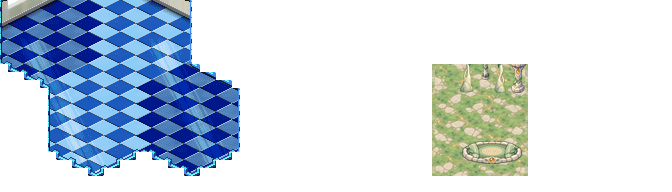
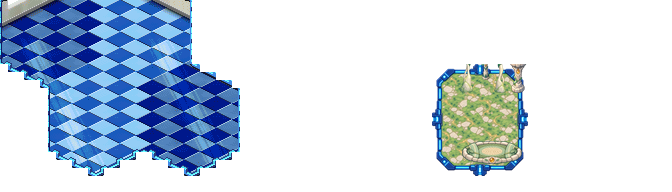
fix(art): restore cage connectors and responsive scale

Changed region(s): [[0.625, 0.3125, 0.8125, 0.9375]]

diff --git a/src/championship/presentation/intRh2/raisingFieldViewport.js b/src/championship/presentation/intRh2/raisingFieldViewport.js
@@ -14,12 +14,12 @@ export function raisingFieldViewport(field, viewport, padding = 12, cameraX = 0)
   const nativeWindow = field.presentationMode === 'NATIVE_RANCH' && field.nativePixelWorldScale > 0;
   const headroom = nativeWindow && field.wrapWidthPx ? 64*field.nativePixelWorldScale : 0;
   const heightScale = Math.max(1, viewport.height - padding * 2) / (field.worldHeightPx+headroom);
-  // The ranch is a wide, 192-native-pixel-tall strip. Filling a tall phone's
-  // height outright magnified it until one cage covered the screen and its
-  // neighbours, and often every resident, sat outside the frame -- measured at
-  // 390x844. Two screen pixels per original pixel is the stop: large enough to
-  // read a resident, wide enough to keep the next cage in view.
-  const zoomCap = 2 / field.nativePixelWorldScale;
+  // Never shrink below two screen pixels per native pixel; then use available
+  // phone/tablet/desktop width to enlarge the same ranch plane instead of
+  // exposing large empty surroundings. The single fitted transform still owns
+  // art, residents, input and camera round trips.
+  const nativeScreenPixels = Math.min(4.5, Math.max(2, viewport.width / 160));
+  const zoomCap = nativeScreenPixels / field.nativePixelWorldScale;
   const scale = nativeWindow ? Math.min(heightScale, zoomCap)
     : Math.min(Math.max(1, viewport.width - padding * 2) / field.worldWidthPx, heightScale);
   const width = field.worldWidthPx * scale;

diff --git a/scripts/build-cage-authoring-proof.py b/scripts/build-cage-authoring-proof.py
@@ -128,32 +128,17 @@ def candidate_manifest(contract, candidate):
         require(digest(candidate/relative) == source_hashes[Path(relative).name], 'CANDIDATE_SOURCE_HASH_MISMATCH')
     return manifest
 
-def _opaque_core_source(source, size):
+def _fit_modular_core_source(source, size):
     image = source.convert('RGBA')
-    target_ratio = size[0] / size[1]
-    source_ratio = image.width / image.height
-    if source_ratio > target_ratio:
-        crop_width = round(image.height * target_ratio)
-        left = (image.width - crop_width) // 2
-        image = image.crop((left, 0, left + crop_width, image.height))
-    elif source_ratio < target_ratio:
-        crop_height = round(image.width / target_ratio)
-        top = (image.height - crop_height) // 2
-        image = image.crop((0, top, image.width, top + crop_height))
-    image = image.resize(tuple(size), Image.Resampling.LANCZOS)
-    image.putalpha(Image.new('L', image.size, 255))
-    # Pair the outer three pixel bands so the authored ground wraps without an
-    # alpha or colour crack. This changes no Cage coordinate or placement.
-    pixels=image.load()
-    for inset in range(3):
-        for y in range(image.height):
-            left,right=pixels[inset,y],pixels[image.width-1-inset,y]
-            shared=tuple(round((left[i]+right[i])/2) for i in range(4))
-            pixels[inset,y]=shared; pixels[image.width-1-inset,y]=shared
-        for x in range(image.width):
-            top,bottom=pixels[x,inset],pixels[x,image.height-1-inset]
-            shared=tuple(round((top[i]+bottom[i])/2) for i in range(4))
-            pixels[x,inset]=shared; pixels[x,image.height-1-inset]=shared
+    alpha = image.getchannel('A')
+    threshold = alpha.point(lambda value: 255 if value >= 16 else 0)
+    bounds = threshold.getbbox()
+    require(bounds is not None, 'CANDIDATE_CORE_SOURCE_EMPTY')
+    # Alpha trim and fit the authored four-way connector silhouette to the
+    # existing 96x112 contract. No placement, pivot or hand-tuned X/Y offset is
+    # introduced; the visible source bounds define all four contact edges.
+    image = image.crop(bounds).convert('RGBa').resize(tuple(size), Image.Resampling.LANCZOS).convert('RGBA')
+    image.putalpha(image.getchannel('A').point(lambda value: 0 if value < 8 else value))
     return image
 
 def _fit_object_source(source, record, inset=1):
@@ -184,7 +169,7 @@ def prepare_candidate(contract, candidate):
     manifest = candidate_manifest(contract, candidate)
     sources = manifest['sources']
     with Image.open(candidate/sources['core']) as source:
-        core = _opaque_core_source(source, contract['core']['size'])
+        core = _fit_modular_core_source(source, contract['core']['size'])
     core.save(candidate/'core-native.png', optimize=True)
     object_dir = candidate/'object-cells'
     object_dir.mkdir(parents=True, exist_ok=True)
@@ -200,7 +185,11 @@ def load_candidate_export(contract, candidate):
     require(core_path.is_file(), 'CANDIDATE_CORE_EXPORT_MISSING')
     core = Image.open(core_path).convert('RGBA')
     require(list(core.size) == contract['core']['size'], 'CANDIDATE_CORE_DIMENSION_DRIFT')
-    require(core.getchannel('A').getextrema() == (255,255), 'CANDIDATE_CORE_MUST_BE_OPAQUE')
+    alpha = core.getchannel('A')
+    require(alpha.getextrema() == (0,255), 'CANDIDATE_CORE_REQUIRES_REAL_ALPHA')
+    require(alpha.getbbox() == (0,0,core.width,core.height), 'CANDIDATE_CORE_CONNECTORS_MUST_REACH_ALL_EDGES')
+    require(all(alpha.getpixel(point) == 0 for point in ((0,0),(core.width-1,0),(0,core.height-1),(core.width-1,core.height-1))),
+        'CANDIDATE_CORE_CORNERS_MUST_REMAIN_TRANSPARENT')
     expected = {o['objectId'] for o in contract['objects']}
     object_dir = candidate/'object-cells'
     actual = {p.stem for p in object_dir.glob('*.png')} if object_dir.is_dir() else set()
@@ -341,18 +330,25 @@ def build_candidate(contract, candidate, output):
             draw.text((column*review_cell[0]*review_scale+8,8),record['objectId'],fill=(255,255,255,255))
     review.save(output/'object-review.png',optimize=True)
     with Image.open(candidate/'core-native.png').convert('RGBA') as core:
-        def mean_edge_delta(first,second):
-            a=first.convert('RGB').tobytes(); b=second.convert('RGB').tobytes()
-            values=[sum(abs(a[i+j]-b[i+j]) for j in range(3))/3 for i in range(0,len(a),3)]
-            return round(sum(values)/len(values),3)
-        seam={'leftRightMeanRgbDelta':mean_edge_delta(core.crop((0,0,1,core.height)),core.crop((core.width-1,0,core.width,core.height))),
-            'topBottomMeanRgbDelta':mean_edge_delta(core.crop((0,0,core.width,1)),core.crop((0,core.height-1,core.width,core.height))),
-            'transparentGapPixels':core.getchannel('A').tobytes().count(0),
-            'status':'VISUAL_REVIEW_REQUIRED_NO_ALPHA_GAPS'}
+        channel=core.getchannel('A'); pixels=core.load()
+        edge_alpha={
+            'top':sum(channel.getpixel((x,0))>0 for x in range(core.width)),
+            'bottom':sum(channel.getpixel((x,core.height-1))>0 for x in range(core.width)),
+            'left':sum(channel.getpixel((0,y))>0 for y in range(core.height)),
+            'right':sum(channel.getpixel((core.width-1,y))>0 for y in range(core.height))}
+        require(all(value>0 for value in edge_alpha.values()),'CANDIDATE_CORE_MISSING_CONNECTOR_EDGE')
+        transparent=channel.tobytes().count(0)
+        require(transparent>=core.width*core.height*.05,'CANDIDATE_CORE_TRANSPARENT_EXTERIOR_TOO_SMALL')
+        blue=sum(1 for y in range(core.height) for x in range(core.width)
+            if channel.getpixel((x,y))>=32 and pixels[x,y][2]>=pixels[x,y][0]+25)
+        require(blue>=core.width*core.height*.08,'CANDIDATE_CORE_BLUE_RIM_NOT_READABLE')
+        seam={'connectorEdgeAlphaPixels':edge_alpha,'transparentExteriorPixels':transparent,
+            'blueRimPixels':blue,'status':'GEOMETRY_PASS_VISUAL_JOIN_REVIEW_REQUIRED'}
     report={'fieldId':FIELD,'assetId':manifest['assetId'],'status':'CANDIDATE_GEOMETRY_PASS_VISUAL_REVIEW_REQUIRED',
         'formula':'placement - pivot','manualCorrections':0,'geometryUnchanged':True,'completePackage':True,
         'rightsStatus':'ORIGINAL_CREATED','humanApproved':False,'runtimeEligible':False,'shippingReady':False,
-        'core':{'size':contract['core']['size'],'opaque':True,'sha256':digest(candidate/'core-native.png')},
+        'core':{'size':contract['core']['size'],'opaque':False,'alphaBounds':list(channel.getbbox()),
+            'sha256':digest(candidate/'core-native.png')},
         'objects':alpha,'seamQa':seam,'scenarios':scenarios,
         'limits':['Generated-art geometry and completeness pass; this is not pixel equality with research material.',
             'Foreground actor-object ordering remains UNKNOWN_REQUIRES_TRACE until separately traced and approved.',

diff --git a/tests/test_cage_authoring_proof.py b/tests/test_cage_authoring_proof.py
@@ -90,16 +90,16 @@ class CageAuthoringProof(unittest.TestCase):
 
     def test_incomplete_candidate_never_falls_back_to_reference_objects(self):
         source=ROOT/'docs/art/production/original-character-cage-r1/cage-field-cm01-breeze-meadow-v1'
+        manifest=proof.read(source/'manifest.json')
         with tempfile.TemporaryDirectory() as folder:
             candidate=Path(folder)
             (candidate/'object-cells').mkdir()
             (candidate/'manifest.json').write_bytes((source/'manifest.json').read_bytes())
             (candidate/'core-native.png').write_bytes((source/'core-native.png').read_bytes())
-            for relative in ['source/core-generated.png','prompts/core.prompt.txt']:
+            inputs=[manifest['sources']['core'],manifest['prompts']['core'],
+                *manifest['sources']['objects'].values(),*manifest['prompts']['objects'].values()]
+            for relative in inputs:
                 target=candidate/relative; target.parent.mkdir(parents=True,exist_ok=True); target.write_bytes((source/relative).read_bytes())
-            for object_id in ['obj-000','obj-001','obj-002','obj-003']:
-                for relative in [f'source/{object_id}-generated.png',f'prompts/{object_id}.prompt.txt']:
-                    target=candidate/relative; target.parent.mkdir(parents=True,exist_ok=True); target.write_bytes((source/relative).read_bytes())
             for object_id in ['obj-000','obj-001','obj-002']:
                 (candidate/'object-cells'/f'{object_id}.png').write_bytes((source/'object-cells'/f'{object_id}.png').read_bytes())
             with self.assertRaisesRegex(ValueError,'OBJECT_EXPORT_SET_INCOMPLETE'):
@@ -107,14 +107,15 @@ class CageAuthoringProof(unittest.TestCase):
 
     def test_candidate_source_hash_drift_is_refused(self):
         source=ROOT/'docs/art/production/original-character-cage-r1/cage-field-cm01-breeze-meadow-v1'
+        manifest=proof.read(source/'manifest.json')
         with tempfile.TemporaryDirectory() as folder:
             candidate=Path(folder)
-            for relative in ['manifest.json','prompts/core.prompt.txt',
-                *[f'prompts/obj-{index:03d}.prompt.txt' for index in range(4)],
-                *[f'source/obj-{index:03d}-generated.png' for index in range(4)]]:
+            inputs=[manifest['prompts']['core'],*manifest['prompts']['objects'].values(),
+                *manifest['sources']['objects'].values()]
+            for relative in ['manifest.json',*inputs]:
                 target=candidate/relative; target.parent.mkdir(parents=True,exist_ok=True); target.write_bytes((source/relative).read_bytes())
-            target=candidate/'source/core-generated.png'; target.parent.mkdir(parents=True,exist_ok=True)
-            target.write_bytes((source/'source/core-generated.png').read_bytes()+b'changed')
+            core=manifest['sources']['core']; target=candidate/core; target.parent.mkdir(parents=True,exist_ok=True)
+            target.write_bytes((source/core).read_bytes()+b'changed')
             with self.assertRaisesRegex(ValueError,'CANDIDATE_SOURCE_HASH_MISMATCH'):
                 proof.candidate_manifest(self.contract,candidate)
 

diff --git a/docs/reports/cage-art-candidate-2026-09-17/REPORT_ZH_TW.md b/docs/reports/cage-art-candidate-2026-09-17/REPORT_ZH_TW.md
@@ -1,6 +1,6 @@
 # field_cm01_01 第一批原創 Cage 候選
 
-日期：2026-09-17。狀態：`ART_PROPOSAL / LOCAL_PREVIEW_ONLY / OWNER_REVIEW_REQUIRED`。
+初版日期：2026-09-17；藍色拼接邊與 responsive 畫面修正版：2026-09-18。狀態：`ART_PROPOSAL / LOCAL_PREVIEW_ONLY / OWNER_REVIEW_REQUIRED`。
 
 本批只製作 `field_cm01_01`。沒有替換正式 production manifest、沒有部署、沒有 merge main，也沒有生成其他 Cage 或角色。
 
@@ -8,13 +8,13 @@
 
 名稱：**微風草坡育成棲地（Breeze Meadow Nursery）**。
 
-- core：鼠尾草／薄荷色草地、平嵌暖白礦石與少量琥珀能量線，所有細節保持平面可走；
+- core：鼠尾草／薄荷色草地、平嵌暖白礦石與少量琥珀能量線，外圍改為原創鈷藍結構板、青色光帶與上／下／左／右四向接頭，四角為真透明；
 - `obj-000`：低矮編織育成墊；
 - `obj-001`：葉片風向標與種子燈；
 - `obj-002`：葉帆幼體遮棚；
 - `obj-003`：露水盆與幼芽座。
 
-完整來源圖、五份手寫 prompt、生成方式、來源 SHA-256、候選狀態與輸出路徑見[候選 manifest](../../art/production/original-character-cage-r1/cage-field-cm01-breeze-meadow-v1/manifest.json)。五張來源均由內建 imagegen 以文字生成；沒有把研究圖片送入生成工具，也沒有對研究圖改色、描摹或裁切成交付素材。工具沒有回傳模型 ID，因此保持 `UNKNOWN_TOOL_NOT_EXPOSED`；沒有新增付費 API 批次。
+完整來源圖、prompt、生成方式、來源 SHA-256、候選狀態與輸出路徑見[候選 manifest](../../art/production/original-character-cage-r1/cage-field-cm01-breeze-meadow-v1/manifest.json)。初版地面與四物件由內建 imagegen 生成；修正版只把候選自己的原創地面送回 imagegen，新增原創四向藍色拼接邊與透明外圍。沒有把研究圖片送入生成工具，也沒有對研究圖改色、描摹或裁切成交付素材。工具沒有回傳模型 ID，因此保持 `UNKNOWN_TOOL_NOT_EXPOSED`；沒有新增付費 API 批次。
 
 ## 契約與工具
 
@@ -24,8 +24,9 @@
 - object ID 必須完整且只允許 `obj-000` 至 `obj-003`；
 - 少任何一張圖立即失敗，不會回退 faithful／研究素材；
 - placements、pivots、source order、裁切、`placement - pivot` 與既有 geometry contract 不變；
-- generated source 只做透明裁切、premultiplied resize、safe-bounds contain、底部對齊與 1px 透明安全邊；
-- core 只做固定比例裁切、縮放與 3px 對邊配對，沒有手工 X/Y 修正。
+- object source 只做透明裁切、premultiplied resize、safe-bounds contain、底部對齊與 1px 透明安全邊；
+- core 依生成圖的 alpha bounds 裁切後，直接依固定契約縮至 96×112；不再強制成不透明矩形，也沒有手工 X/Y 修正；
+- core 必須保留四角透明、四邊各有接頭像素，且縮圖後仍要有足量藍色邊；缺任一條件立即失敗。
 
 候選重建命令：
 
@@ -48,7 +49,9 @@ npm run art:cage:candidate:cm01
 - [1024×1366](browser/raising-candidate-1024x1366.png)
 - [瀏覽器機器回條](browser/browser-qa.json)
 
-角色先在 1024×1366 以遊戲既有的「手」長按、搬運、放開與飛行落地流程移到畫面中可見的 cm01 開放草地；沒有寫入 runtime 座標、改 save 或新增測試鉤子。390px 以四次正常場地滑動讓已落地角色與 cm01 進入視窗，後續 820px／1024px 沿用同一相機狀態；三張都是現有 responsive camera 的實際結果。
+角色先在 1024×1366 以遊戲既有的「手」長按、停在右緣讓原有 edge-scroll 捲動 7 秒、搬運、放開與飛行落地流程移到 cm01 開放草地；沒有寫入 runtime／camera 座標、改 save 或新增測試鉤子。[接地當下畫面](browser/raising-candidate-grounding-1024x1366.png)獨立保存。角色之後會依既有 AI 離開，因此三張尺寸圖只作場地比例與可見範圍證據，不冒充接地瞬間。
+
+寬畫面的同一個 `raisingFieldViewport` 改為受可用高度限制的 responsive 原生像素倍率：約為 390 的 2.31×、820 的 4.06×、1024 的 4.5×。美術、角色、點擊、drop target 與 camera round-trip 仍共用同一轉換，沒有新增 renderer 或第二個場景。
 
 ## QA 結果與界線
 
@@ -59,11 +62,12 @@ npm run art:cage:candidate:cm01
 | Node structural contract | 3/3 PASS |
 | 候選完整性 | core 96×112；四 object 尺寸／safe alpha bounds PASS |
 | 透明邊緣 | 四 object 的 canvas edge alpha pixel 都是 0 |
-| core 回捲邊界 | 左右／上下平均 RGB edge delta 都是 0；透明裂縫 0 |
+| core 藍色拼接邊 | alpha bounds 0,0–96,112；四角透明；上／下各 10、左／右各 11 個邊界接頭像素；藍色邊 2,166 px |
+| core 透明外圍 | 1,873 個全透明像素；不再是硬切不透明矩形 |
 | 上下排／回捲／起始籠舍 | 四張 deterministic preview 已生成；沒有改 placement、pivot 或裁切 |
 | 同遊戲三尺寸 | PASS；同一 canvas，候選 request 1 次，page errors 0，missing resources 0 |
 | 角色存在／既有接地 | 三尺寸皆有同一正常 resident，仍由現有地面與角色定位 authority 控制 |
-| 角色腳底直接落在候選上 | PASS；正常「手」長按搬運／放開後落在 cm01，三尺寸皆可見。移入後既有 Cage 規則觸發訓練，沒有座標注入 |
+| 角色腳底直接落在候選上 | PASS；正常「手」長按、edge-scroll、搬運／放開後落在 cm01，見獨立接地畫面。之後 AI 會移動，三尺寸圖不作接地證據 |
 | 前景 actor-object ordering | **`UNKNOWN_REQUIRES_TRACE`**；目前 field 是 baked composite，不能由這批靜態圖宣稱遮擋正確 |
 | 實體裝置 | 未驗收 |
 | 人工造型核准 | `false`，等待 Owner |
@@ -71,11 +75,12 @@ npm run art:cage:candidate:cm01
 
 ## 請 Owner 具體審閱
 
-1. 新 core 的草地／暖白礦石密度是否太高，與其他 Cage 並排時是否需要更簡化；
-2. 育成墊、風向標、葉帆遮棚、露水盆四件造型是否符合想要的原創產品方向；
-3. 固定 pivots 與上緣裁切後，遮棚／細柱只露出下段的效果是否接受；
-4. 1024×1366 畫面中，cm01 與既有其他場地並排時的色彩、比例與邊緣過渡是否接受；
-5. 角色已透過正常搬運落在 cm01；請決定是否核准這個造型進入後續「前景遮擋 trace」審查。本報告沒有替 Owner 做造型或升級核准。
+1. 新 core 的鈷藍／青色四向拼接邊造型、粗細與亮度是否核准；
+2. 草地／暖白礦石密度是否太高，與其他 Cage 並排時是否需要更簡化；
+3. 育成墊、風向標、葉帆遮棚、露水盆四件造型是否符合想要的原創產品方向；
+4. 固定 pivots 與上緣裁切後，遮棚／細柱只露出下段的效果是否接受；
+5. 390／820／1024 responsive 放大後的場地占比與保留 headroom 是否接受；
+6. 角色已透過正常搬運落在 cm01；請決定是否核准這個造型進入後續「前景遮擋 trace」審查。本報告沒有替 Owner 做造型或升級核准。
 
 ## STOP POINT
 
